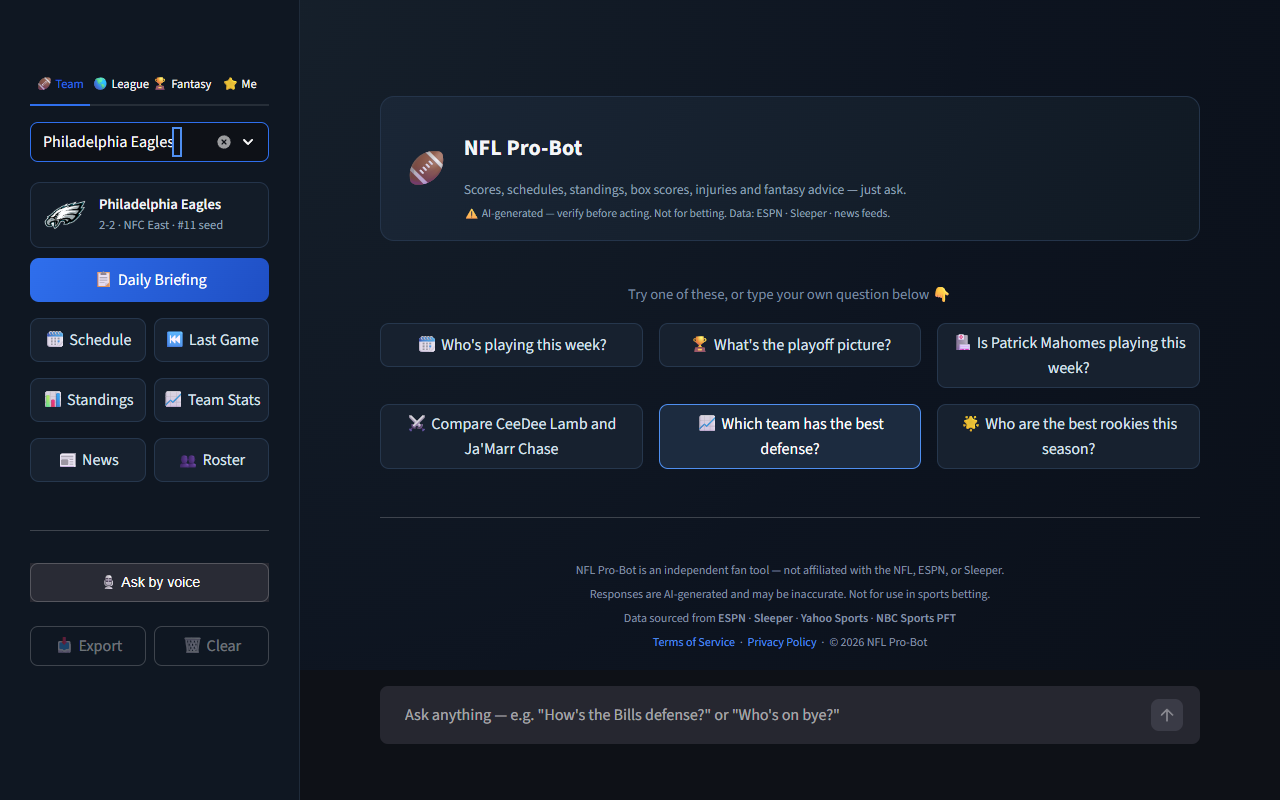
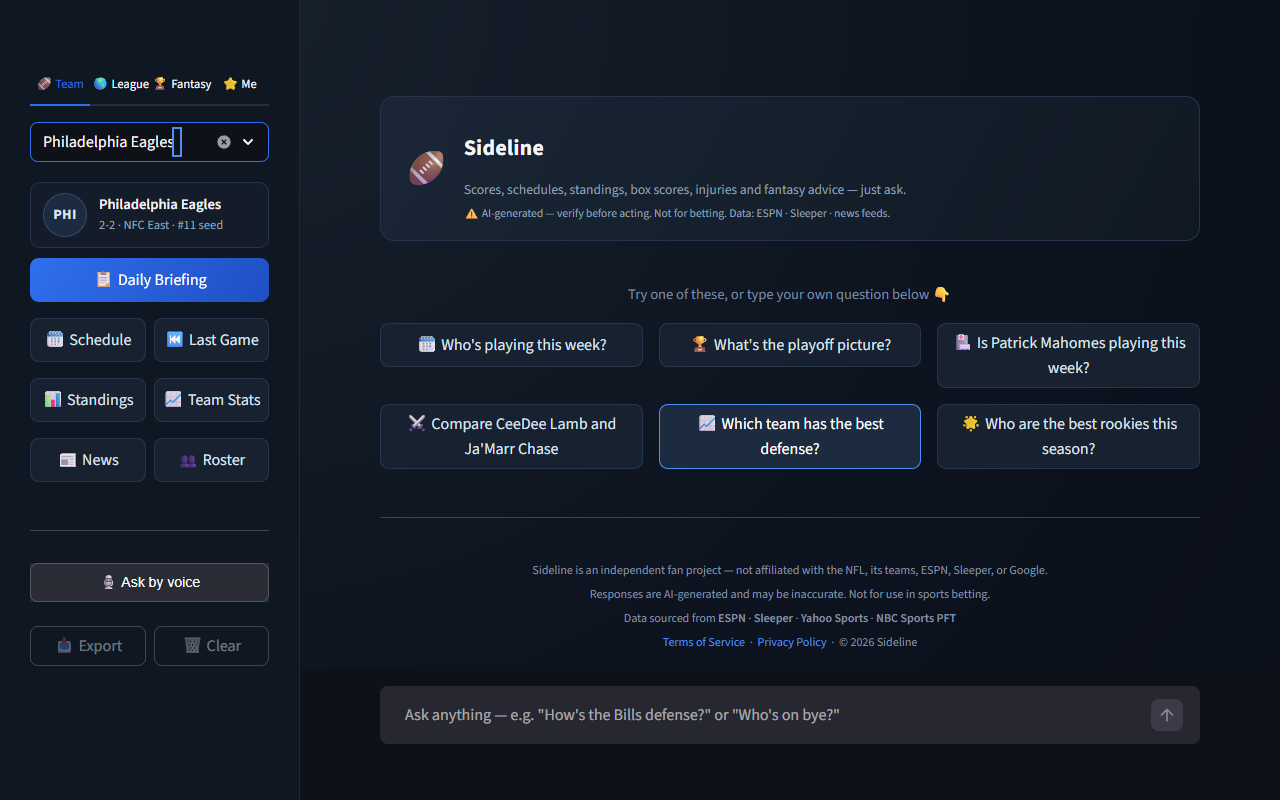
docs: live app moved to sideline.streamlit.app; refresh screenshot

diff --git a/README.md b/README.md
@@ -1,6 +1,6 @@
 # 🏈 Sideline
 
-[![Live app](https://img.shields.io/badge/live%20app-nflchatbot.streamlit.app-ff4b4b?logo=streamlit&logoColor=white)](https://nflchatbot.streamlit.app/)
+[![Live app](https://img.shields.io/badge/live%20app-sideline.streamlit.app-ff4b4b?logo=streamlit&logoColor=white)](https://sideline.streamlit.app/)
 [![CI](https://github.com/PTucc327/NFL_Chatbot/actions/workflows/ci.yml/badge.svg)](https://github.com/PTucc327/NFL_Chatbot/actions/workflows/ci.yml)
 ![Python 3.12](https://img.shields.io/badge/python-3.12-3776ab?logo=python&logoColor=white)
 
@@ -11,7 +11,7 @@
 > An AI assistant for NFL fans that answers in plain English from **live data**: scores,
 > schedules, standings, box scores, injuries, team rankings and fantasy advice.
 
-### **[Try it live → nflchatbot.streamlit.app](https://nflchatbot.streamlit.app/)**
+### **[Try it live → sideline.streamlit.app](https://sideline.streamlit.app/)**
 
 ![Sideline home screen](docs/screenshots/home.png)
 
